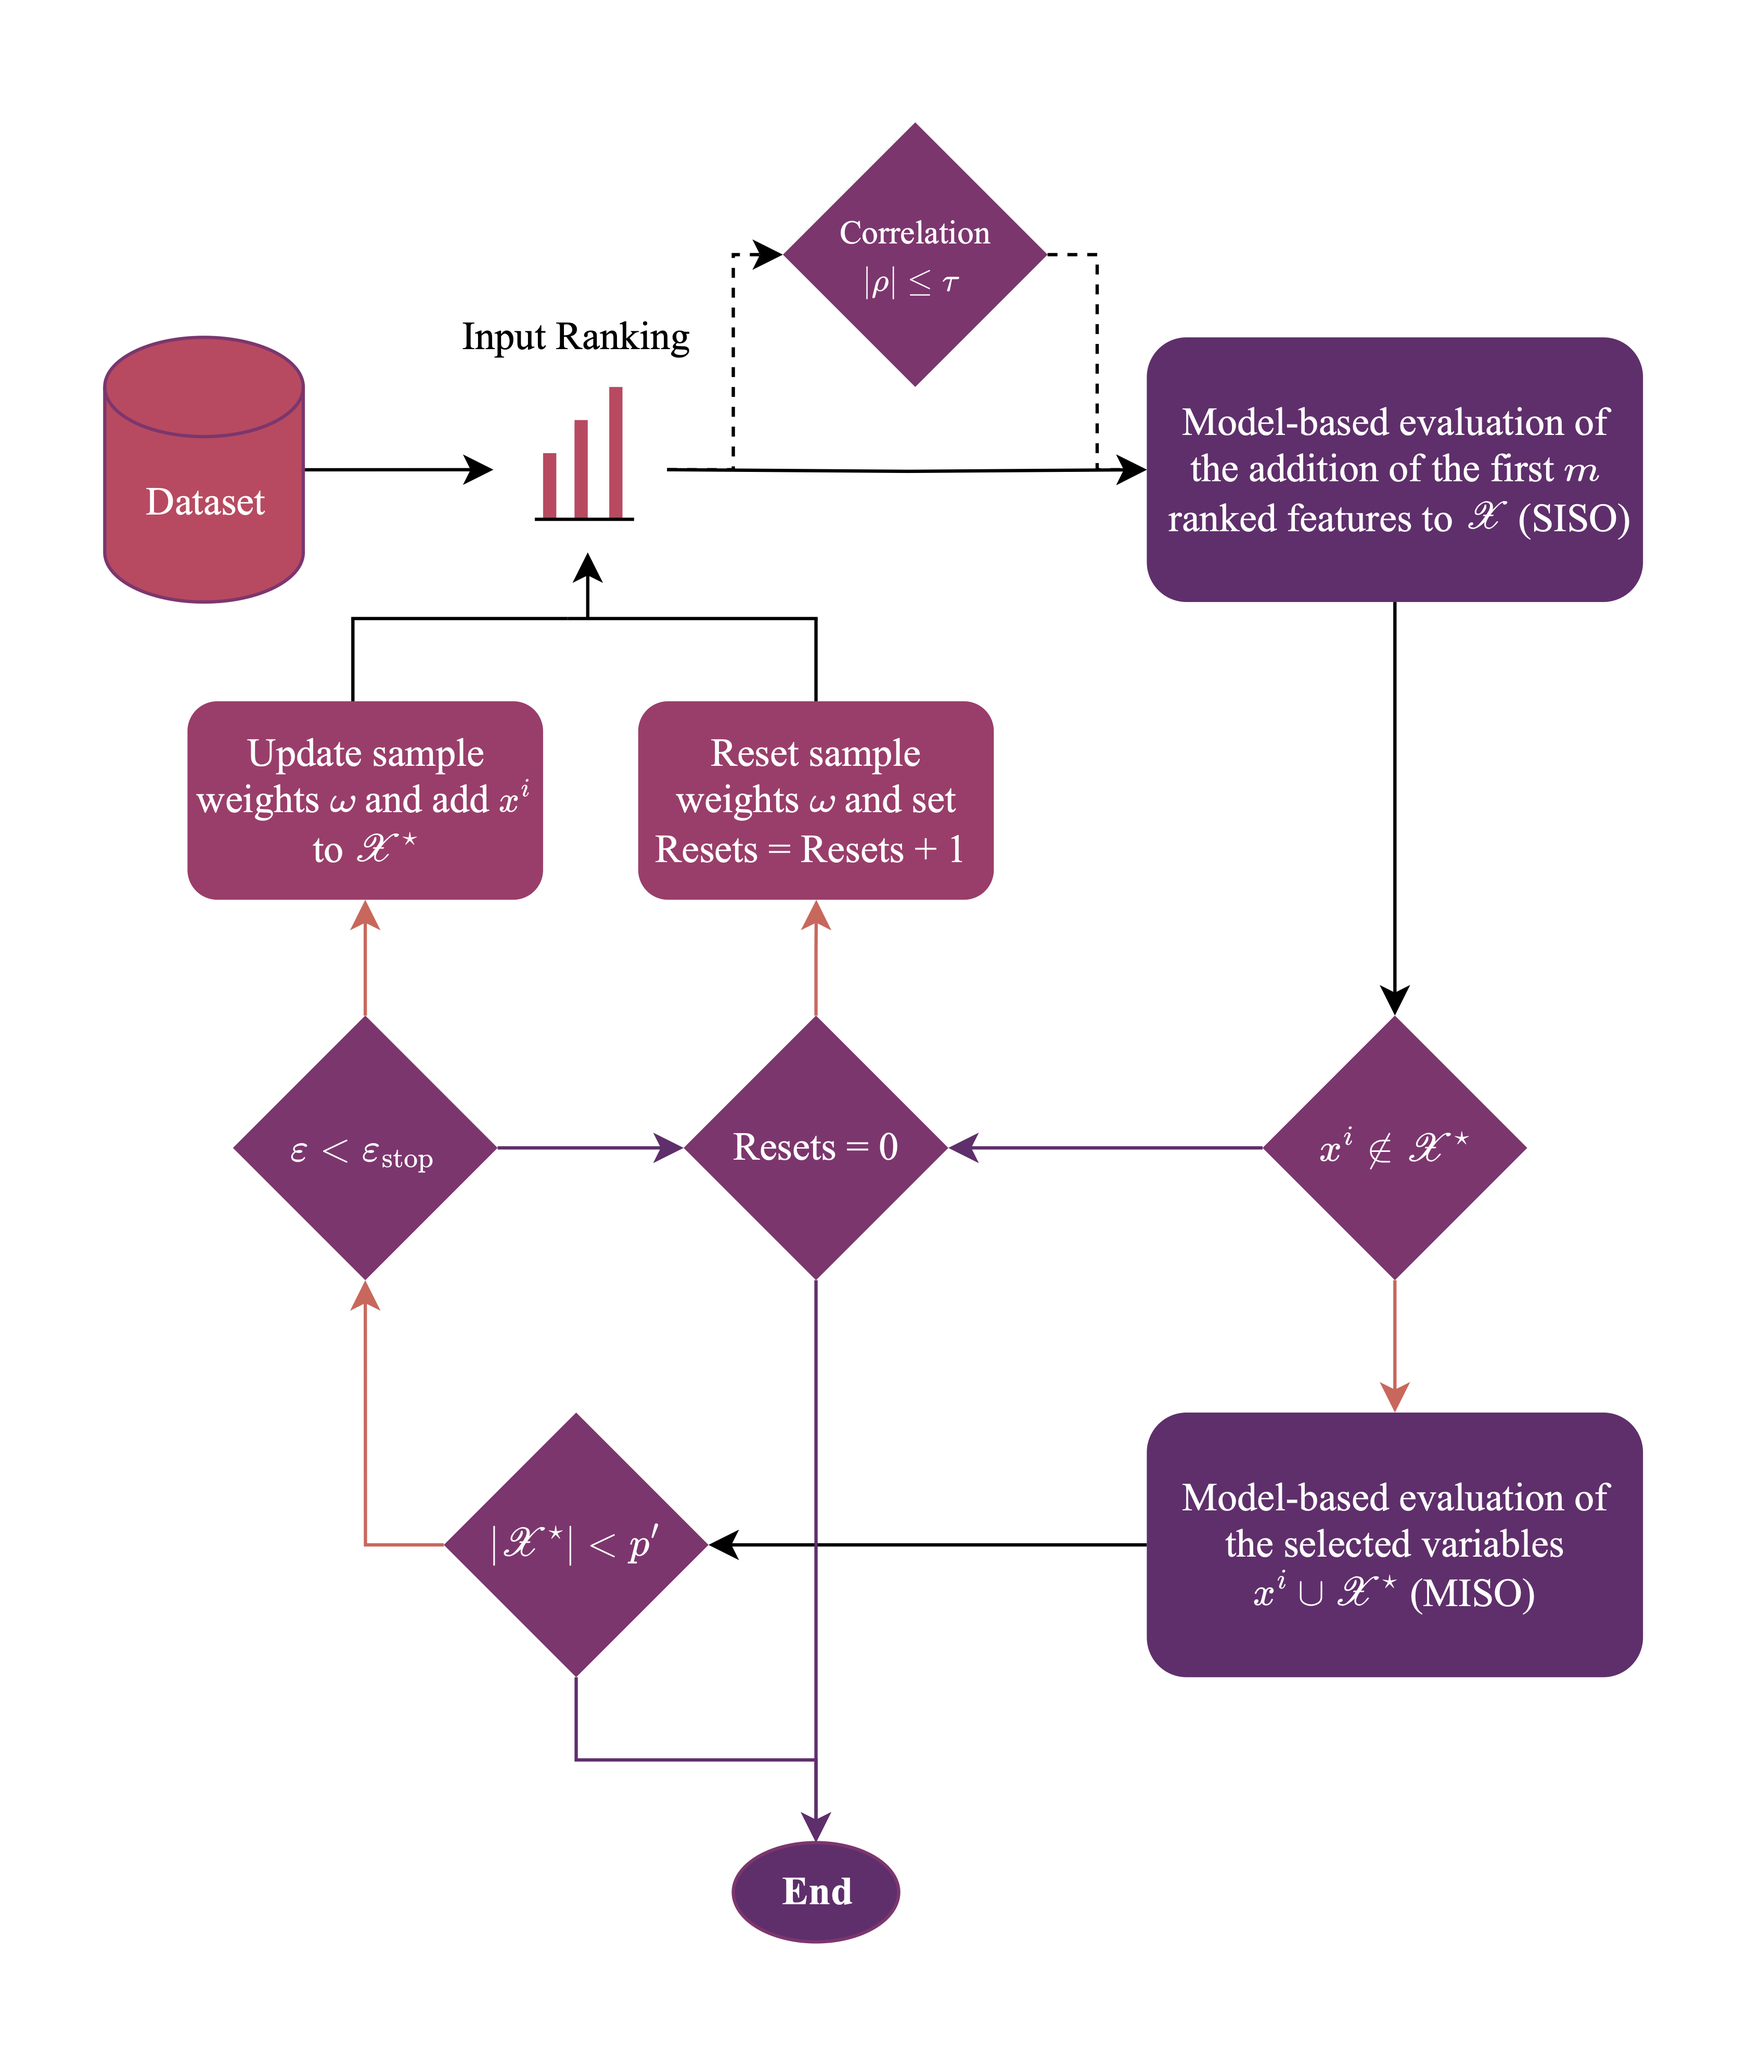
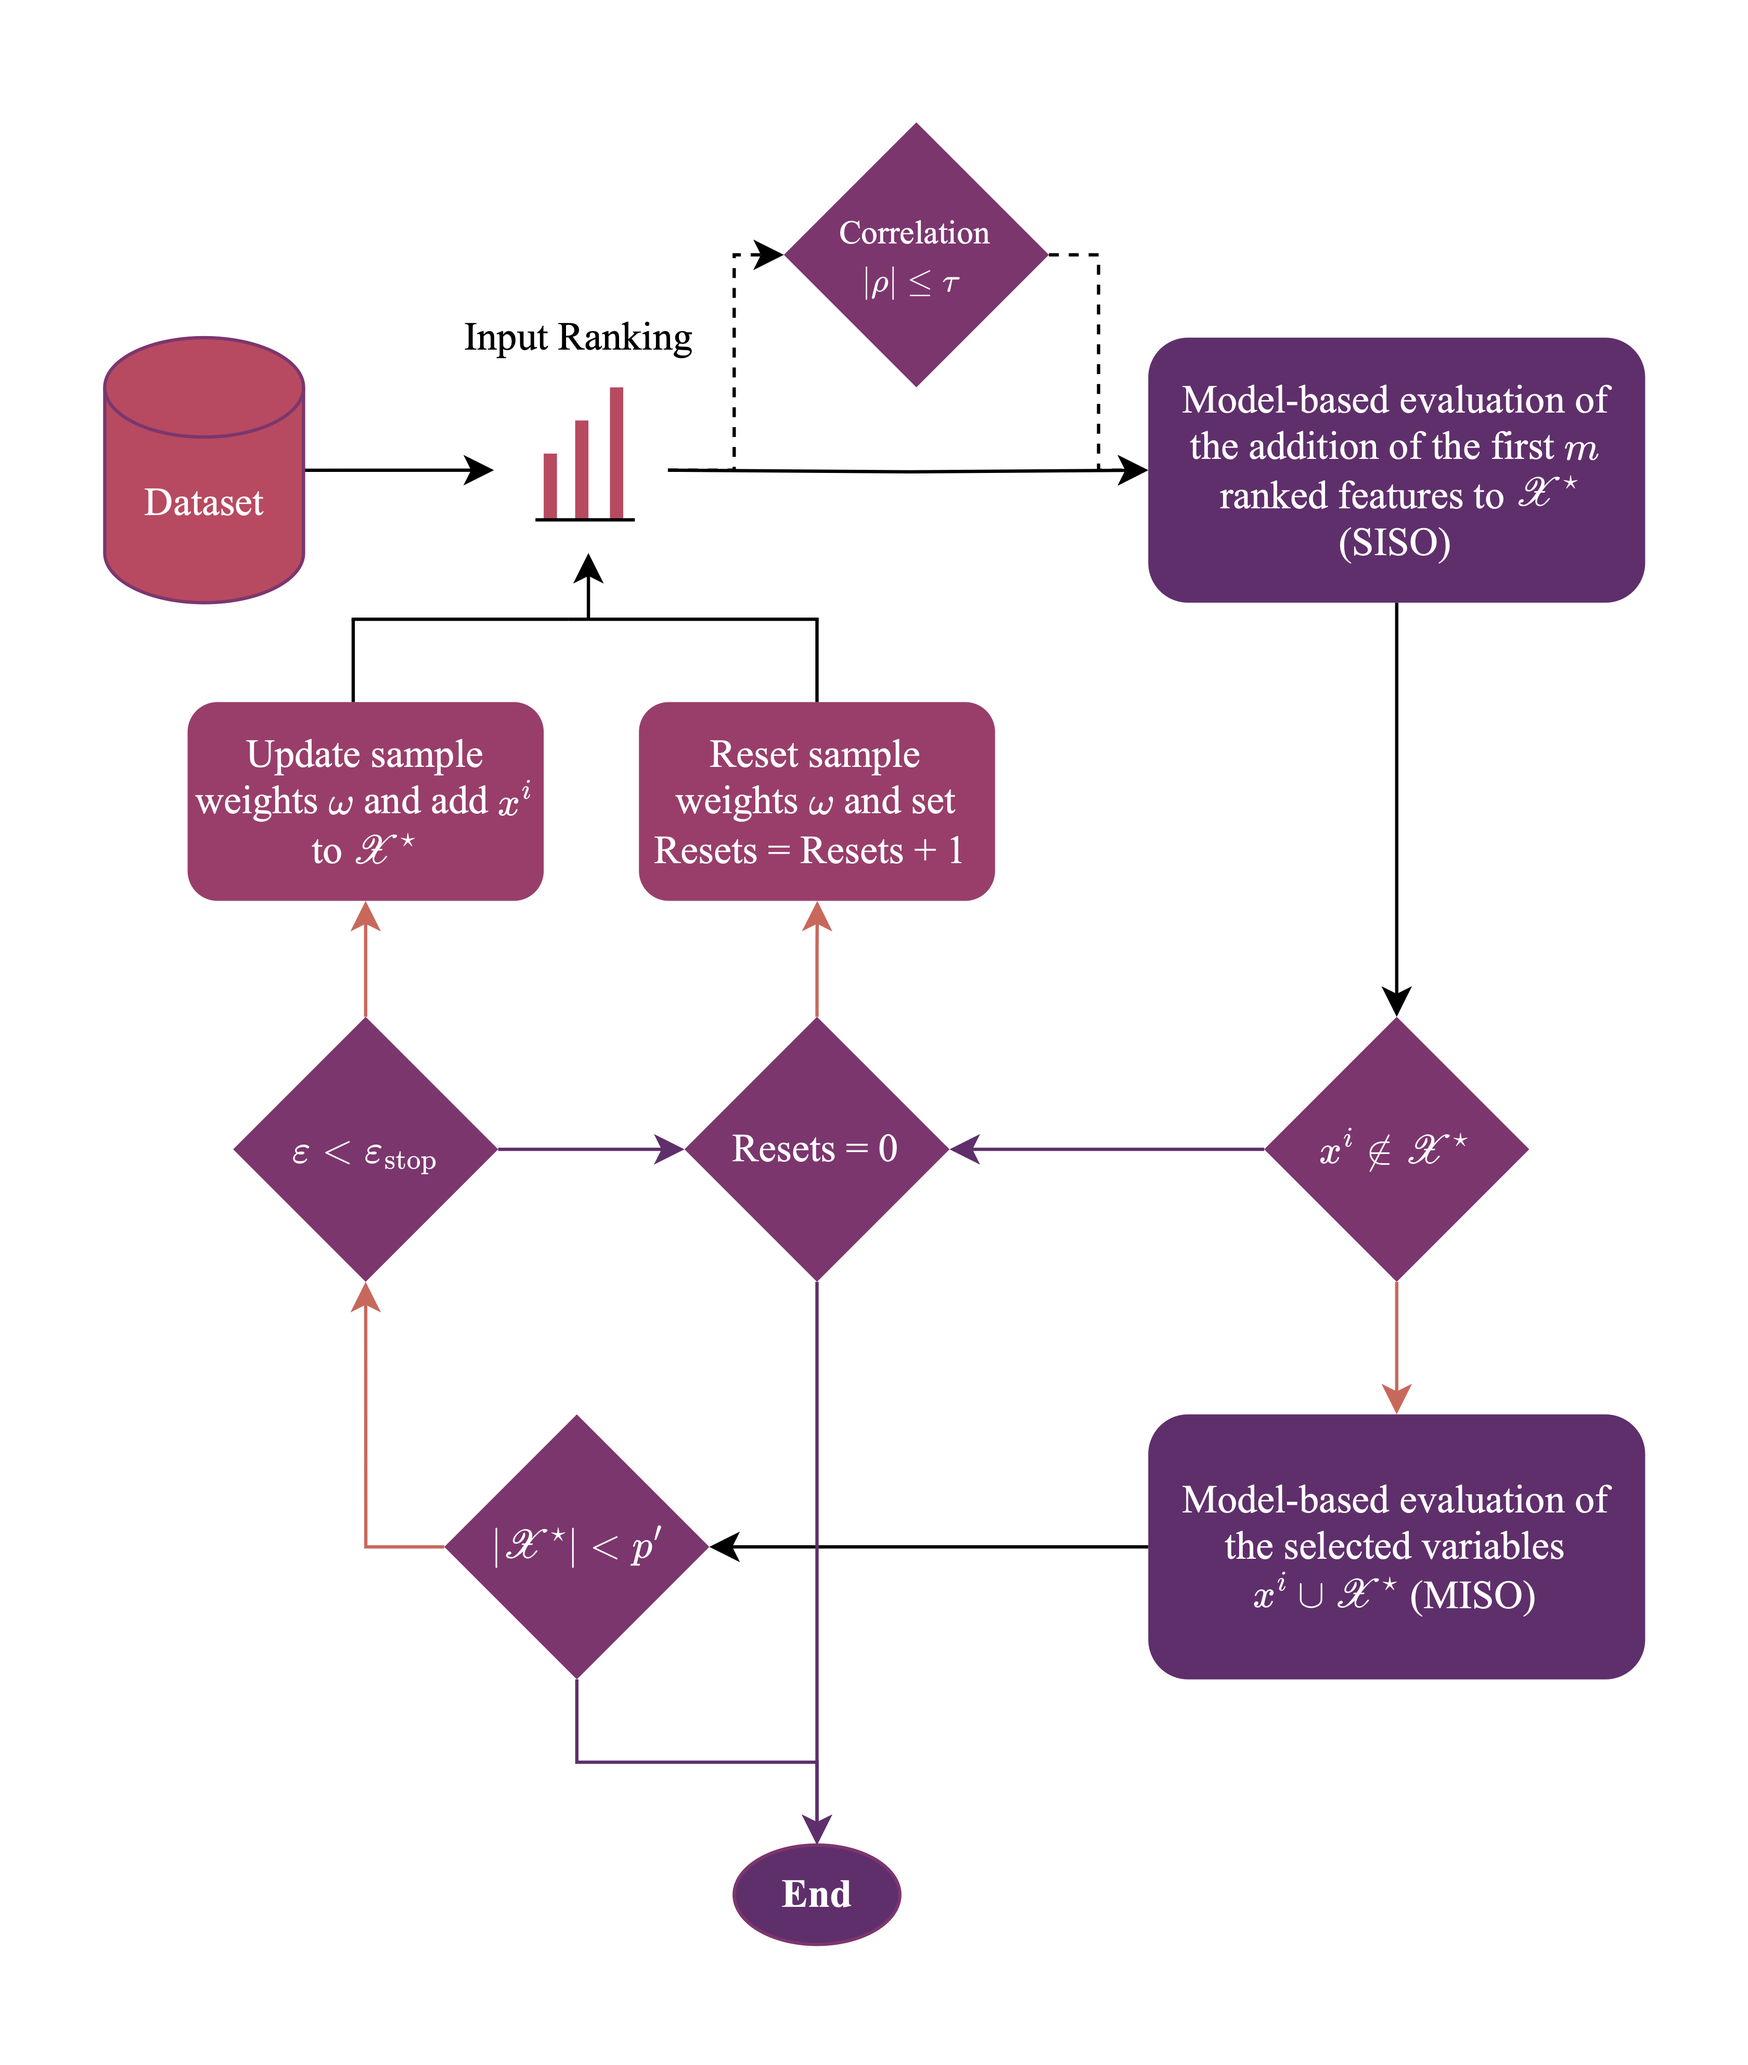
add support leave-one-out cv

diff --git a/shapboost/shapboost_estimator.py b/shapboost/shapboost_estimator.py
@@ -358,7 +358,6 @@ class SHAPBoostEstimator(BaseEstimator, ABC):
         metric = None
         metric_t_all = np.zeros((len(feature_combinations), 1))
         r2_t_all = np.zeros((len(feature_combinations), 1))
-        std_t_all = np.zeros((len(feature_combinations), 1))
         for idx_1, i in enumerate(feature_combinations):
             X_subset = X[:, i]
             n = len(X_subset)
@@ -370,24 +369,57 @@ class SHAPBoostEstimator(BaseEstimator, ABC):
 
             metric_t_folds = np.zeros((self.number_of_folds, 1))
             r2_t_folds = np.zeros((self.number_of_folds, 1))
-            # Compute accuracy for each SISO input.
+
             if self.stratification:
-                kf_splits = self.kf.split(X_subset, stratification)
+                if self.number_of_folds > X_subset.shape[0]:
+                    self.logger.warning(
+                        "Number of folds is greater than the number of samples. "
+                        "Using leave-one-out cross-validation, stratification is disabled."
+                    )
+                    kf_splits = KFold(n_splits=X_subset.shape[0], shuffle=True).split(
+                        X_subset
+                    )
+                    stratification = False
+                else:
+                    kf_splits = self.kf.split(X_subset, stratification)
+            elif self.number_of_folds > X_subset.shape[0]:
+                kf_splits = KFold(n_splits=X_subset.shape[0], shuffle=True).split(
+                    X_subset
+                )
             else:
                 kf_splits = self.kf.split(X_subset)
+            loo_metric = self.number_of_folds == X_subset.shape[0]
+            if loo_metric:
+                predictions, tests = [], []
             for count, (train_index, test_index) in enumerate(kf_splits):
                 X_train, X_test = X_subset[train_index], X_subset[test_index]
                 y_train, y_test = Y[train_index], Y[test_index]
                 self._fit_estimator(X_train, y_train, estimator_idx=1)
-                metric = self._score(y_test, self.estimator[1].predict(X_test))  # type: ignore # noqa
+                if loo_metric:
+                    predictions.append(self.estimator[1].predict(X_test))
+                    tests.append(y_test)
+                else:
+                    metric = self._score(y_test, self.estimator[1].predict(X_test))  # type: ignore # noqa
 
-                if self.metric in ["mae", "mse"]:
-                    r2_t_folds[count, :] = r2_score(y_test, self.estimator[1].predict(X_test))  # type: ignore # noqa
-                metric_t_folds[count, :] = metric
+                    if self.metric in ["mae", "mse"]:
+                        r2_t_folds[count, :] = r2_score(y_test, self.estimator[1].predict(X_test))  # type: ignore # noqa
+                    metric_t_folds[count, :] = metric
+            if loo_metric:
+                predictions = np.array(predictions)
+                tests = np.array(tests).squeeze(1)
+            mean_metric = (
+                self._score(tests, predictions)
+                if loo_metric
+                else np.mean(metric_t_folds)
+            )
+            r2_mean = (
+                (r2_score(tests, predictions) if loo_metric else np.mean(r2_t_folds))
+                if self.metric in ["mae", "mse"]
+                else 0
+            )
 
-            metric_t_all[idx_1, :] = np.mean(metric_t_folds)
-            r2_t_all[idx_1, :] = np.mean(r2_t_folds)
-            std_t_all[idx_1, :] = np.std(metric_t_folds)
+            metric_t_all[idx_1, :] = mean_metric
+            r2_t_all[idx_1, :] = r2_mean
             msg = "SISO (%d/%d) %s: %s = %05f" % (
                 idx_1 + 1,
                 len(feature_combinations),
@@ -396,10 +428,10 @@ class SHAPBoostEstimator(BaseEstimator, ABC):
                     + [self._feature_names[x] for x in self._all_selected_variables]
                 ),
                 self.metric,
-                np.mean(metric_t_folds),
+                mean_metric,
             )
             if self.metric in ["mae", "mse"]:
-                msg += ", R2 = %05f" % (np.mean(r2_t_all[idx_1, :]))
+                msg += ", R2 = %05f" % (r2_mean)
             self.logger.debug(msg)
         best_r2_t = 0
         if self.metric in ["mae", "mse", "logloss"]:
@@ -514,16 +546,30 @@ class SHAPBoostEstimator(BaseEstimator, ABC):
             kf_splits = self.kf.split(X, stratification)
         else:
             kf_splits = self.kf.split(X)
+
+        loo_metric = self.number_of_folds == X.shape[0]
+        if loo_metric:
+            predictions, tests = [], []
         for i, (train_index, test_index) in enumerate(kf_splits):
             X_train, X_test = X[train_index], X[test_index]
             y_train, y_test = Y[train_index], Y[test_index]
             self._fit_estimator(X_train, y_train, estimator_idx=1)
-            metric = self._score(y_test, self.estimator[1].predict(X_test))
+            if loo_metric:
+                predictions.append(self.estimator[1].predict(X_test))
+                tests.append(y_test)
+            else:
+                metric = self._score(y_test, self.estimator[1].predict(X_test))
 
-            self.logger.debug("Fold %02d %s = %05f" % (i + 1, self.metric, metric))
-            metric_t_folds[i] = metric
+                self.logger.debug("Fold %02d %s = %05f" % (i + 1, self.metric, metric))
+                metric_t_folds[i] = metric
+        if loo_metric:
+            predictions = np.array(predictions)
+            tests = np.array(tests).squeeze(1)
+        mean_metric = (
+            self._score(tests, predictions) if loo_metric else np.mean(metric_t_folds)
+        )
 
-        metric_t_miso = float(np.mean(metric_t_folds))
+        metric_t_miso = float(mean_metric)
         self.metric_.append(metric_t_miso)
         self.logger.info(
             "%s of MISO after iteration %02d is %05f"
